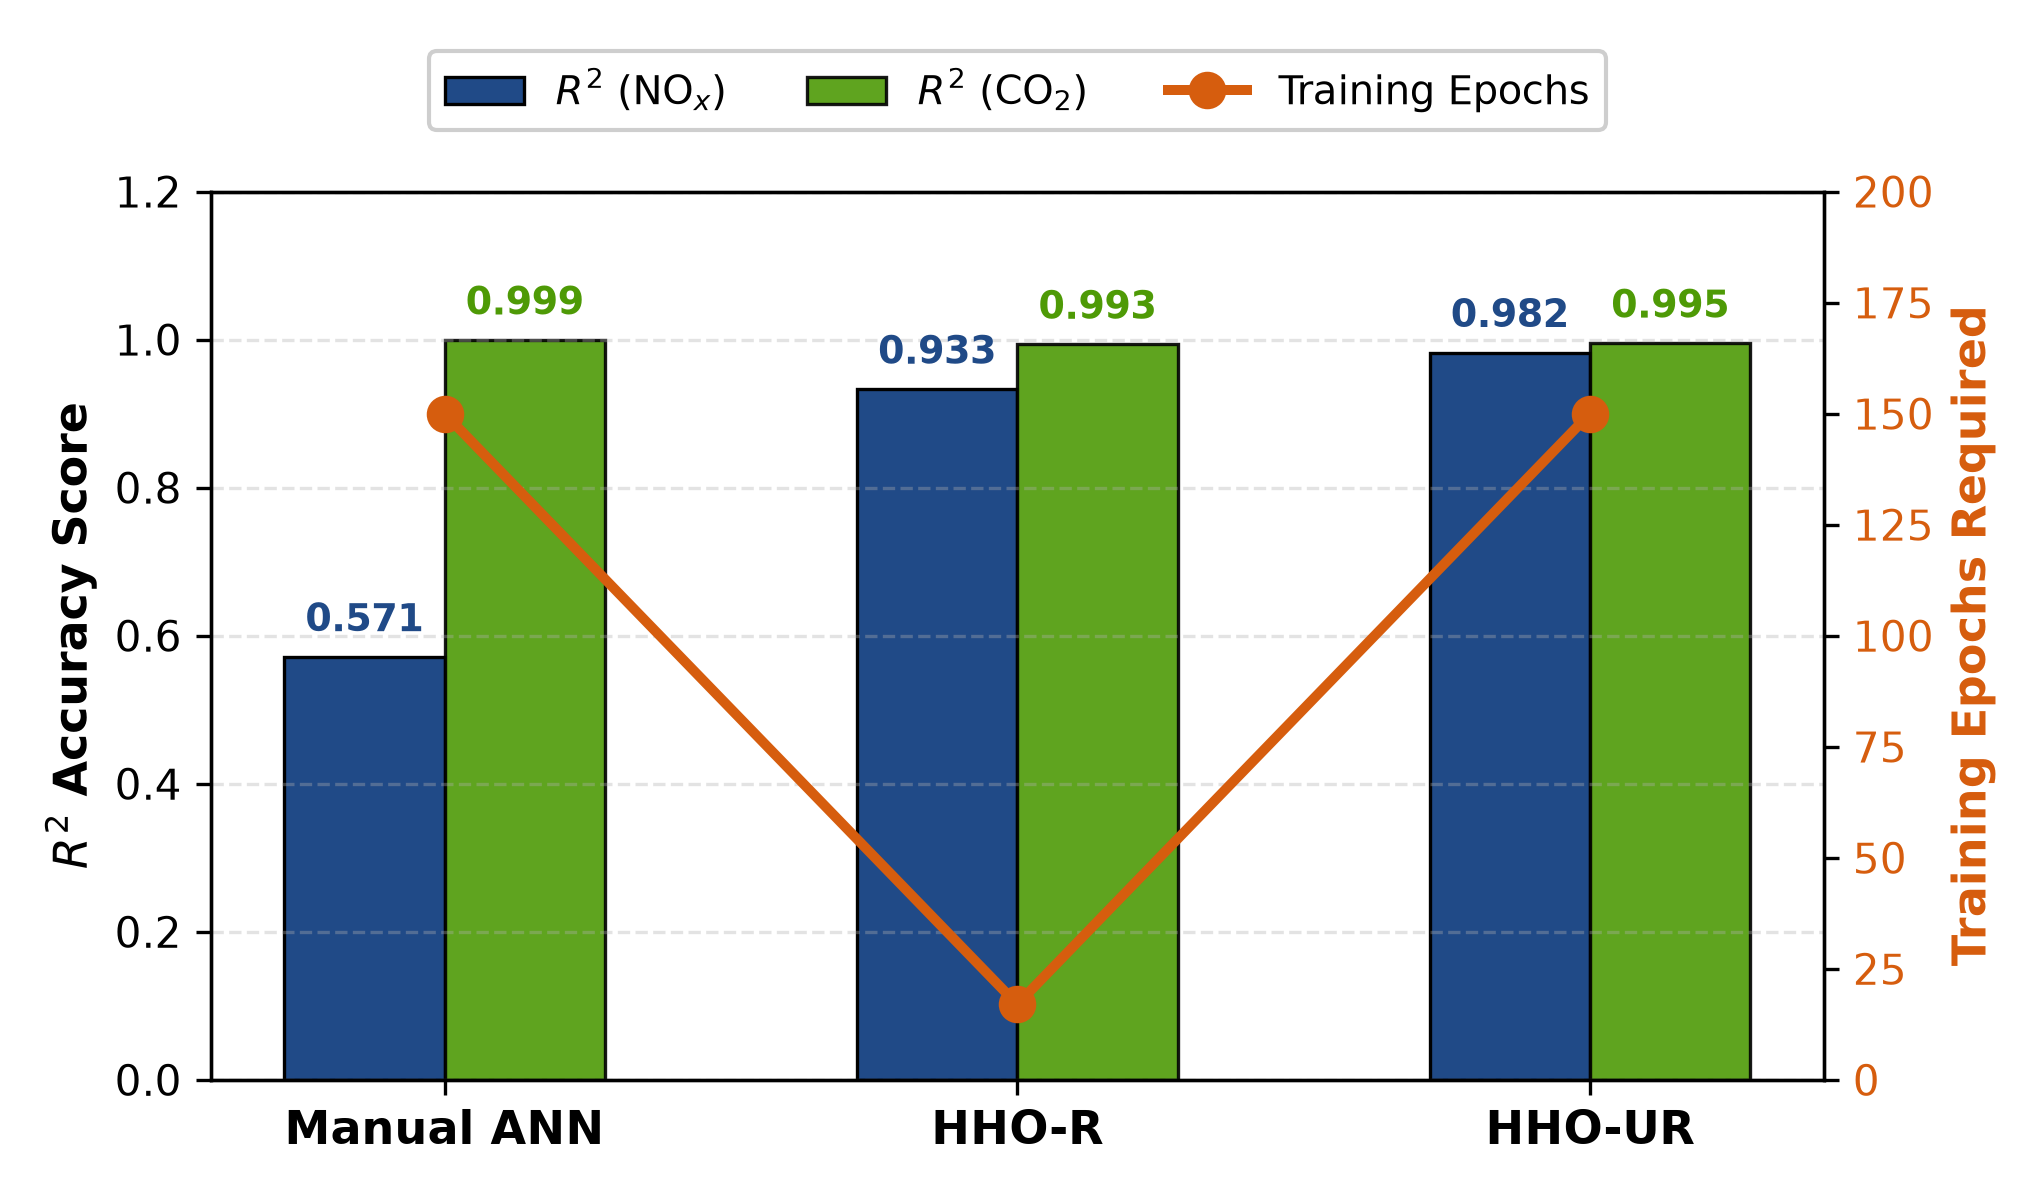
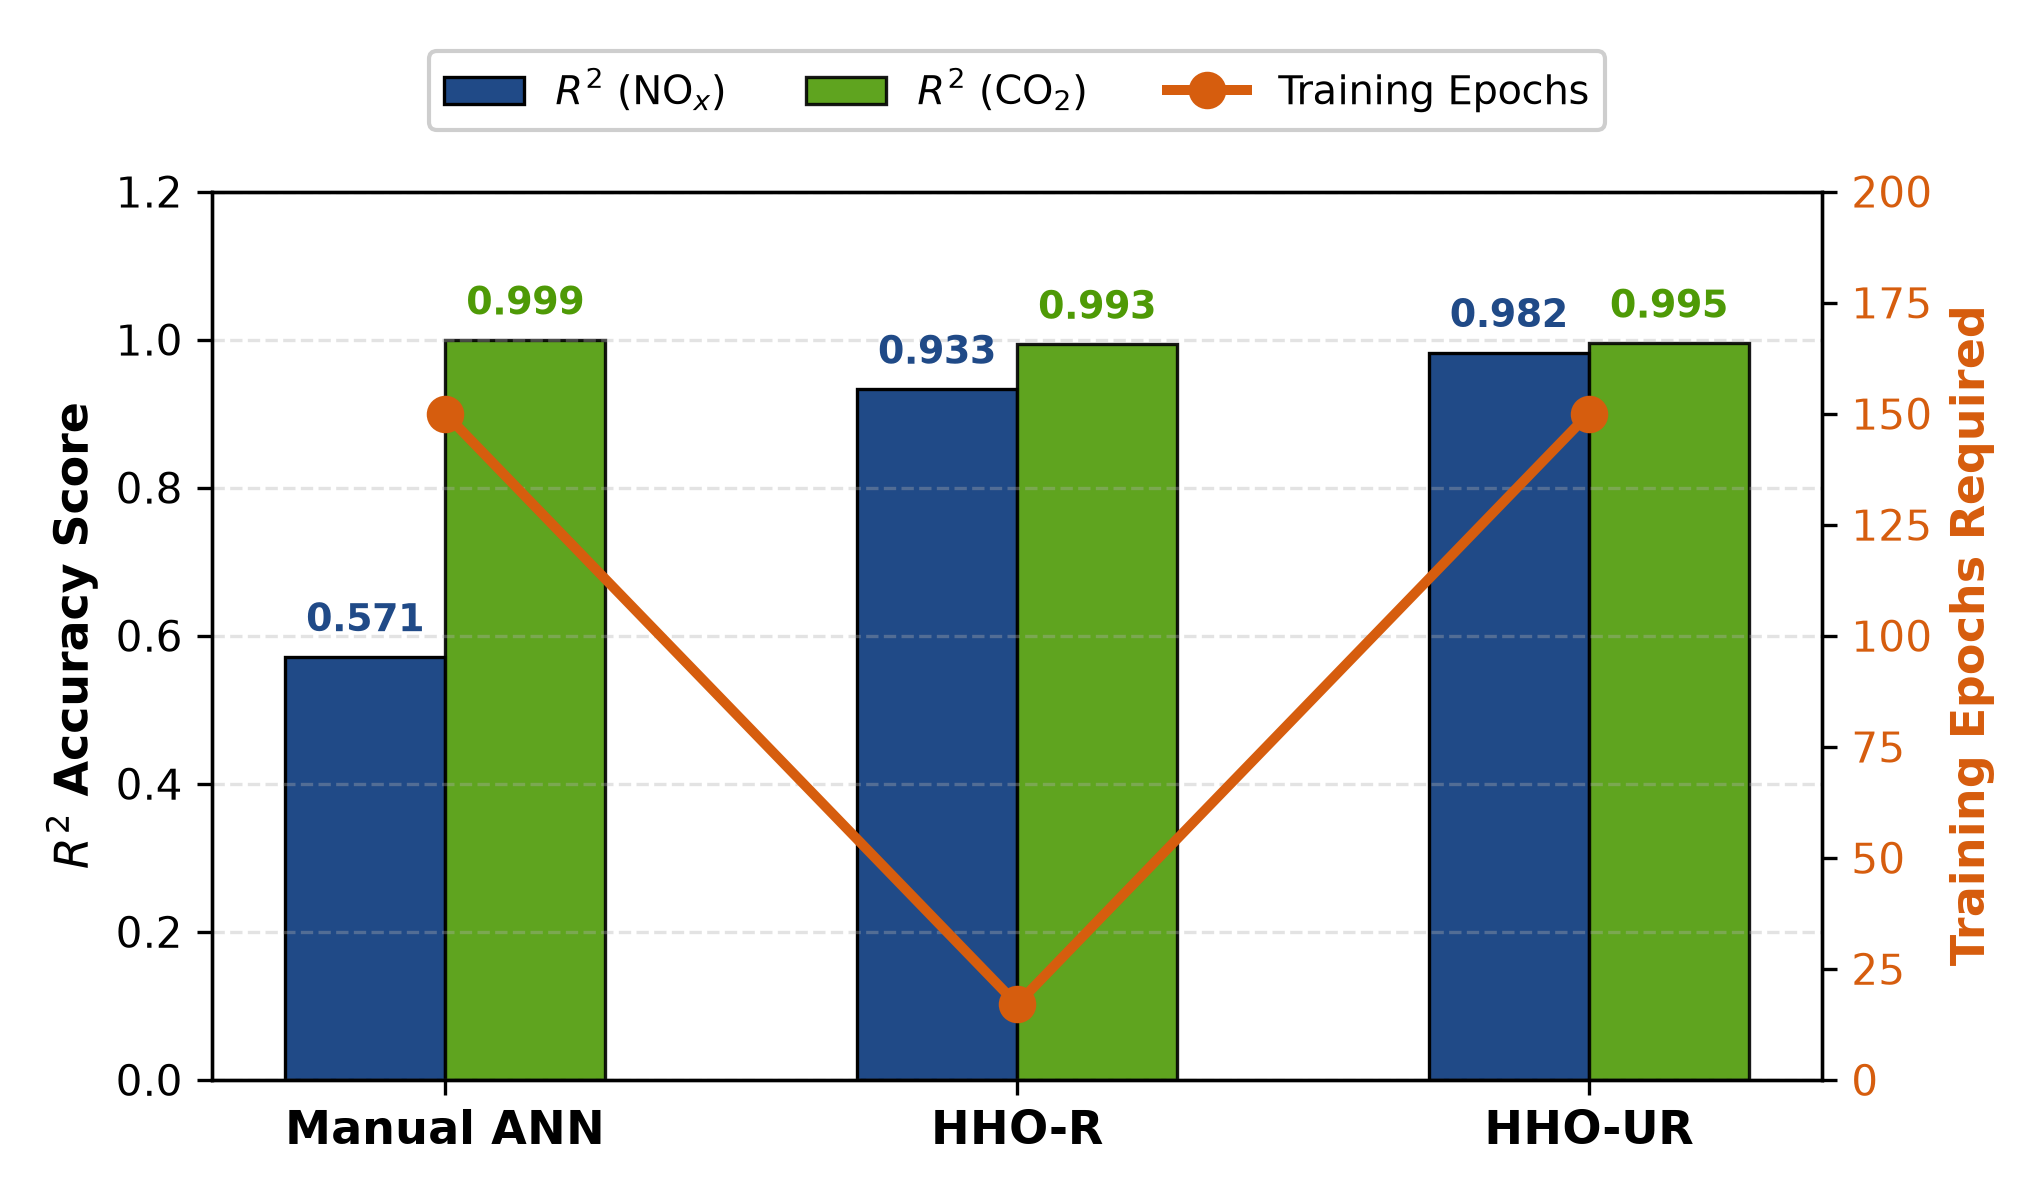
fix(loss): Update test loss figure for PSO and ACOR

diff --git a/main.tex b/main.tex
@@ -299,9 +299,9 @@ overhead across all evaluated models.
 			$0.5714 \pm 0.224$ & \textbf{0.9992} $\pm$ 0.0002 & N/A \\
 			\textbf{SCA} & $[94, 202]$ (2 layers) & \textbf{15} & RMSprop & 1188.31 & 0.8988 & 0.9884 & \textbf{48.5 min} \\
 			\textbf{HHO-R (Restricted)} & $[138, 256]$ (2 layers) & \textbf{17} & Nadam & 678.81 & 0.9327 & 0.9934 & 76.1 min \\
-			\textbf{PSO} & $[242, 125]$ (2 layers) & \textbf{20} & Nadam & 572.74 & 0.9691 & 0.9944 & \textbf{57.0 min} \\
-			\textbf{ACOR (Best Accuracy)} & $[205, 256]$ (2 layers) & \textbf{20} & Adam & \textbf{454.51} &
-			\textbf{0.9791} & 0.9956 & 101.7 min \\
+			\textbf{PSO} & $[242, 125]$ (2 layers) & \textbf{20} & Nadam & 1214.30 & 0.9817 & 0.9882 & \textbf{57.0 min} \\
+			\textbf{ACOR (Lowest Loss)} & $[205, 256]$ (2 layers) & \textbf{20} & Adam & \textbf{590.71} &
+			0.9793 & 0.9942 & 101.7 min \\
 			\textbf{HHO-UR (Unrestricted)} & $[175, 211, 220, 242, 21]$ (5 layers) & 150 & RMSprop & 514.35 &
 			\textbf{0.9823} & 0.9950 & 543.8 min (9.1h) \\
 			\hline
@@ -312,12 +312,14 @@ overhead across all evaluated models.
 For $E_{\text{proxy}} \le 20$ epochs, metaheuristic optimisation yielded consistent improvements in $R^2$ over the
 manual baseline model, which struggled over the non-linear $\ce{NO_x}$ computed emission data. As shown in
 Table~\ref{tab:master_benchmark},
-ACOR achived the lowest MSE loss of $454.51$ and an $R^2$ score of $0.9791$ for $\ce{NO_x}$, and $0.9956$ for $\ce{CO2}$
-in only 20 epochs. AIW-PSO demonstrated similarly robust generalisation, yielding an
-$R^2$ of $0.9691$ for $\ce{NO_x}$ and $0.9944$ for $\ce{CO2}$ with a test loss of $572.74$, while
+ACOR achieved the lowest test MSE loss of $590.71$ alongside an $R^2$ score of $0.9793$ for
+$\ce{NO_x}$ and $0.9942$ for $\ce{CO2}$
+in only 20 epochs. AIW-PSO demonstrated strong predictive fidelity, yielding an
+$R^2$ of $0.9817$ for $\ce{NO_x}$ and $0.9882$ for $\ce{CO2}$ with a test loss of $1214.30$, while
 completing its Stage-1 search in the shortest duration among high-performing variants ($57.0$
 minutes). Restricted HHO (HHO-R) converged at 17 epochs with an $R^2$ of $0.9327$ for $\ce{NO_x}$
-and $0.9934$ for $\ce{CO2}$ in $76.1$ minutes. Even SCA, the most computationally lightweight
+and $0.9934$ for $\ce{CO2}$ with a test loss of $678.81$ in $76.1$ minutes. Even SCA, the most
+computationally lightweight
 optimiser ($48.5$ minutes search), achieved an $R^2$ of $0.8988$ for $\ce{NO_x}$ and $0.9884$ for
 $\ce{CO2}$ in only 15 epochs.
 
@@ -359,26 +361,23 @@ of these accuracy gains and computational trade-offs.
 	\label{fig:comparative_performance}
 \end{figure}
 
-Crucially, Table~\ref{tab:metaheuristic_benchmark} demonstrates complete monotonic rank
-preservation between the Stage-1 proxy fitness scores ($1 - R^2$) and the final Stage-2 test evaluations:
+Table~\ref{tab:metaheuristic_benchmark} shows that the ranking of the algorithms remain identical between the Stage-1
+proxy search ($1 - R^2$) and the Stage-2 evaluation:
 \begin{equation}
 	\text{ACOR} \succ \text{PSO} \succ \text{HHO-R} \succ \text{SCA} \gg \text{Manual Baseline}.
 \end{equation}
-This confirms the validity of the Two-Stage NAS proxy hypothesis: a constrained training budget of
-$\le 20$ epochs provides an effective surrogate gradient landscape that reliably differentiates
-high-performing neural configurations without incurring the prohibitive costs of full-horizon
-training during search iterations.
+This confirms that a short $\le 20$ epoch training constraint reliably identifies the best architectures without wasting
+compute on 150 epochs during search.
 
 \subsection{Convergence Dynamics and Compute Budget Savings}
 
-Figure~\ref{fig:loss_convergence_comparison} delineates the training loss convergence trajectories
-across the evaluated regimes. In Figure~\ref{fig:loss_convergence_comparison}(a), the logarithmic
-convergence curves illustrate the rapid error reduction achieved by the metaheuristic-optimised
-models within the restricted 20-epoch budget. All four algorithms drive the training MSE loss from
-initial values exceeding $35,000$ down into the sub-$1,000$ domain in fewer than 15 epochs. ACOR
-demonstrates the steepest initial descent, descending below $2,000$ loss by Epoch 6 due to the
-frequent stochastic weight updates afforded by its smaller mini-batch size ($B = 16$). Meanwhile,
-PSO achieves the lowest terminal training loss among the restricted variants ($568.05$ at Epoch 20).
+Figure~\ref{fig:loss_convergence_comparison} shows the training loss convergence trend for the
+optimization algorithms. In Figure~\ref{fig:loss_convergence_comparison}(a), rapid error reduction
+is observed for all metaheuristic algorithms within the 20 epoch limit. The final losses settled
+just below the $1000$ mark around the 15\textsuperscript{th} epoch. ACOR showed the steepest initial
+descent to under $2000$ by the 6\textsuperscript{th} epoch due to its smaller mini-batch size ($B =
+16$) and frequent stochastic weight updates. PSO achieved the lowest training loss among epoch
+limited training at $568$ by epoch 20.
 
 \begin{figure*}[t]
 	\centering
